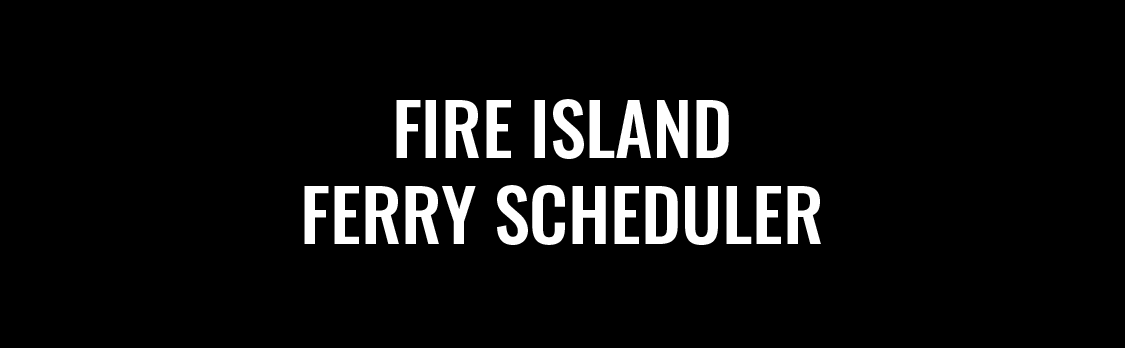
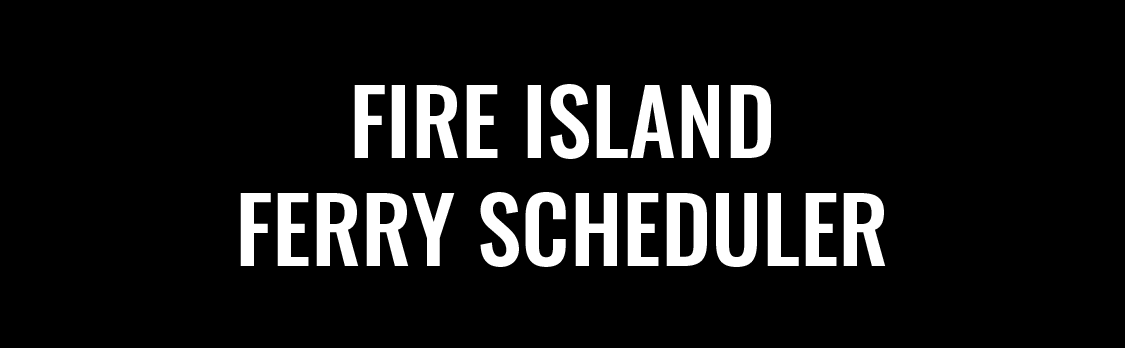
Edit images and work on alignment

Changed region(s): [[0.1867, 0.5172, 0.8089, 0.7759], [0.3111, 0.2299, 0.6844, 0.4598]]

diff --git a/index-mobile.html b/index-mobile.html
@@ -37,7 +37,7 @@
 
 <body>
 
-    <div class="d-flex">
+    <div class="d-flex justify-content-center">
 
       <div class="row">
     <header class="col align-center">
@@ -45,8 +45,7 @@
     </header>
     </div>
 
-    <div class="row mt-md-4">
-  <div class="col col-md-1"></div>
+    <div class="row">
   <div class="col col-md-7 main_fields_margin">
   <div class='main_fields'>
   <section class='userInput'>
@@ -171,7 +170,7 @@
   </div> <!--Closing div for main_field class-->
   </div>
   
-  <div  class="row mt-md-4">
+  <div  class="row">
   
   <div class="col-md-6"></div>
   <div class="col-md-6">
@@ -180,7 +179,7 @@
   </div>
   
   <div class="footer">
-    <img class='full-width-bar top_header' src="images/footer-mobile.png" alt="Footer">
+    <img class='full-width-bar bottom_header' src="images/footer-mobile.png" alt="Footer">
   </div>
 
   <script type="text/javascript" src="fireMain.js"></script>

diff --git a/mobile.css b/mobile.css
@@ -10,6 +10,7 @@ a, p, option {
 
 .d-flex {
     min-height: 100vh;
+    max-width: 100vw;
     position: sticky;
     z-index: 1;
     background: #ffffff;
@@ -25,6 +26,7 @@ a, p, option {
     display: grid;
     padding: 15px;
 }
+
 .full-width-bar {
    margin: 0 -9999rem;
    /* add back negative margin value */
@@ -36,8 +38,14 @@ a, p, option {
    position: absolute;
    display: block;
    height: 100px;
+   align-self: center;
 }
 
+.bottom_header {
+   position: absolute;
+   display: block;
+   height: 100px;
+}
 .contact_img {
    position: absolute;
    bottom: 0;

diff --git a/browserView.js b/browserView.js
@@ -1,3 +1,3 @@
-if(/Android|webOS|iPhone|iPad|iPod|BlackBerry|IEMobile|Opera Mini/i.test(navigator.userAgent) ) {
+if(/Android|webOS|iPhone|iPad|iPod|BlackBerry|IEMobile|Opera Mini/i.test(navigator.userAgent)) {
     window.location.href = "index-mobile.html";
 }
